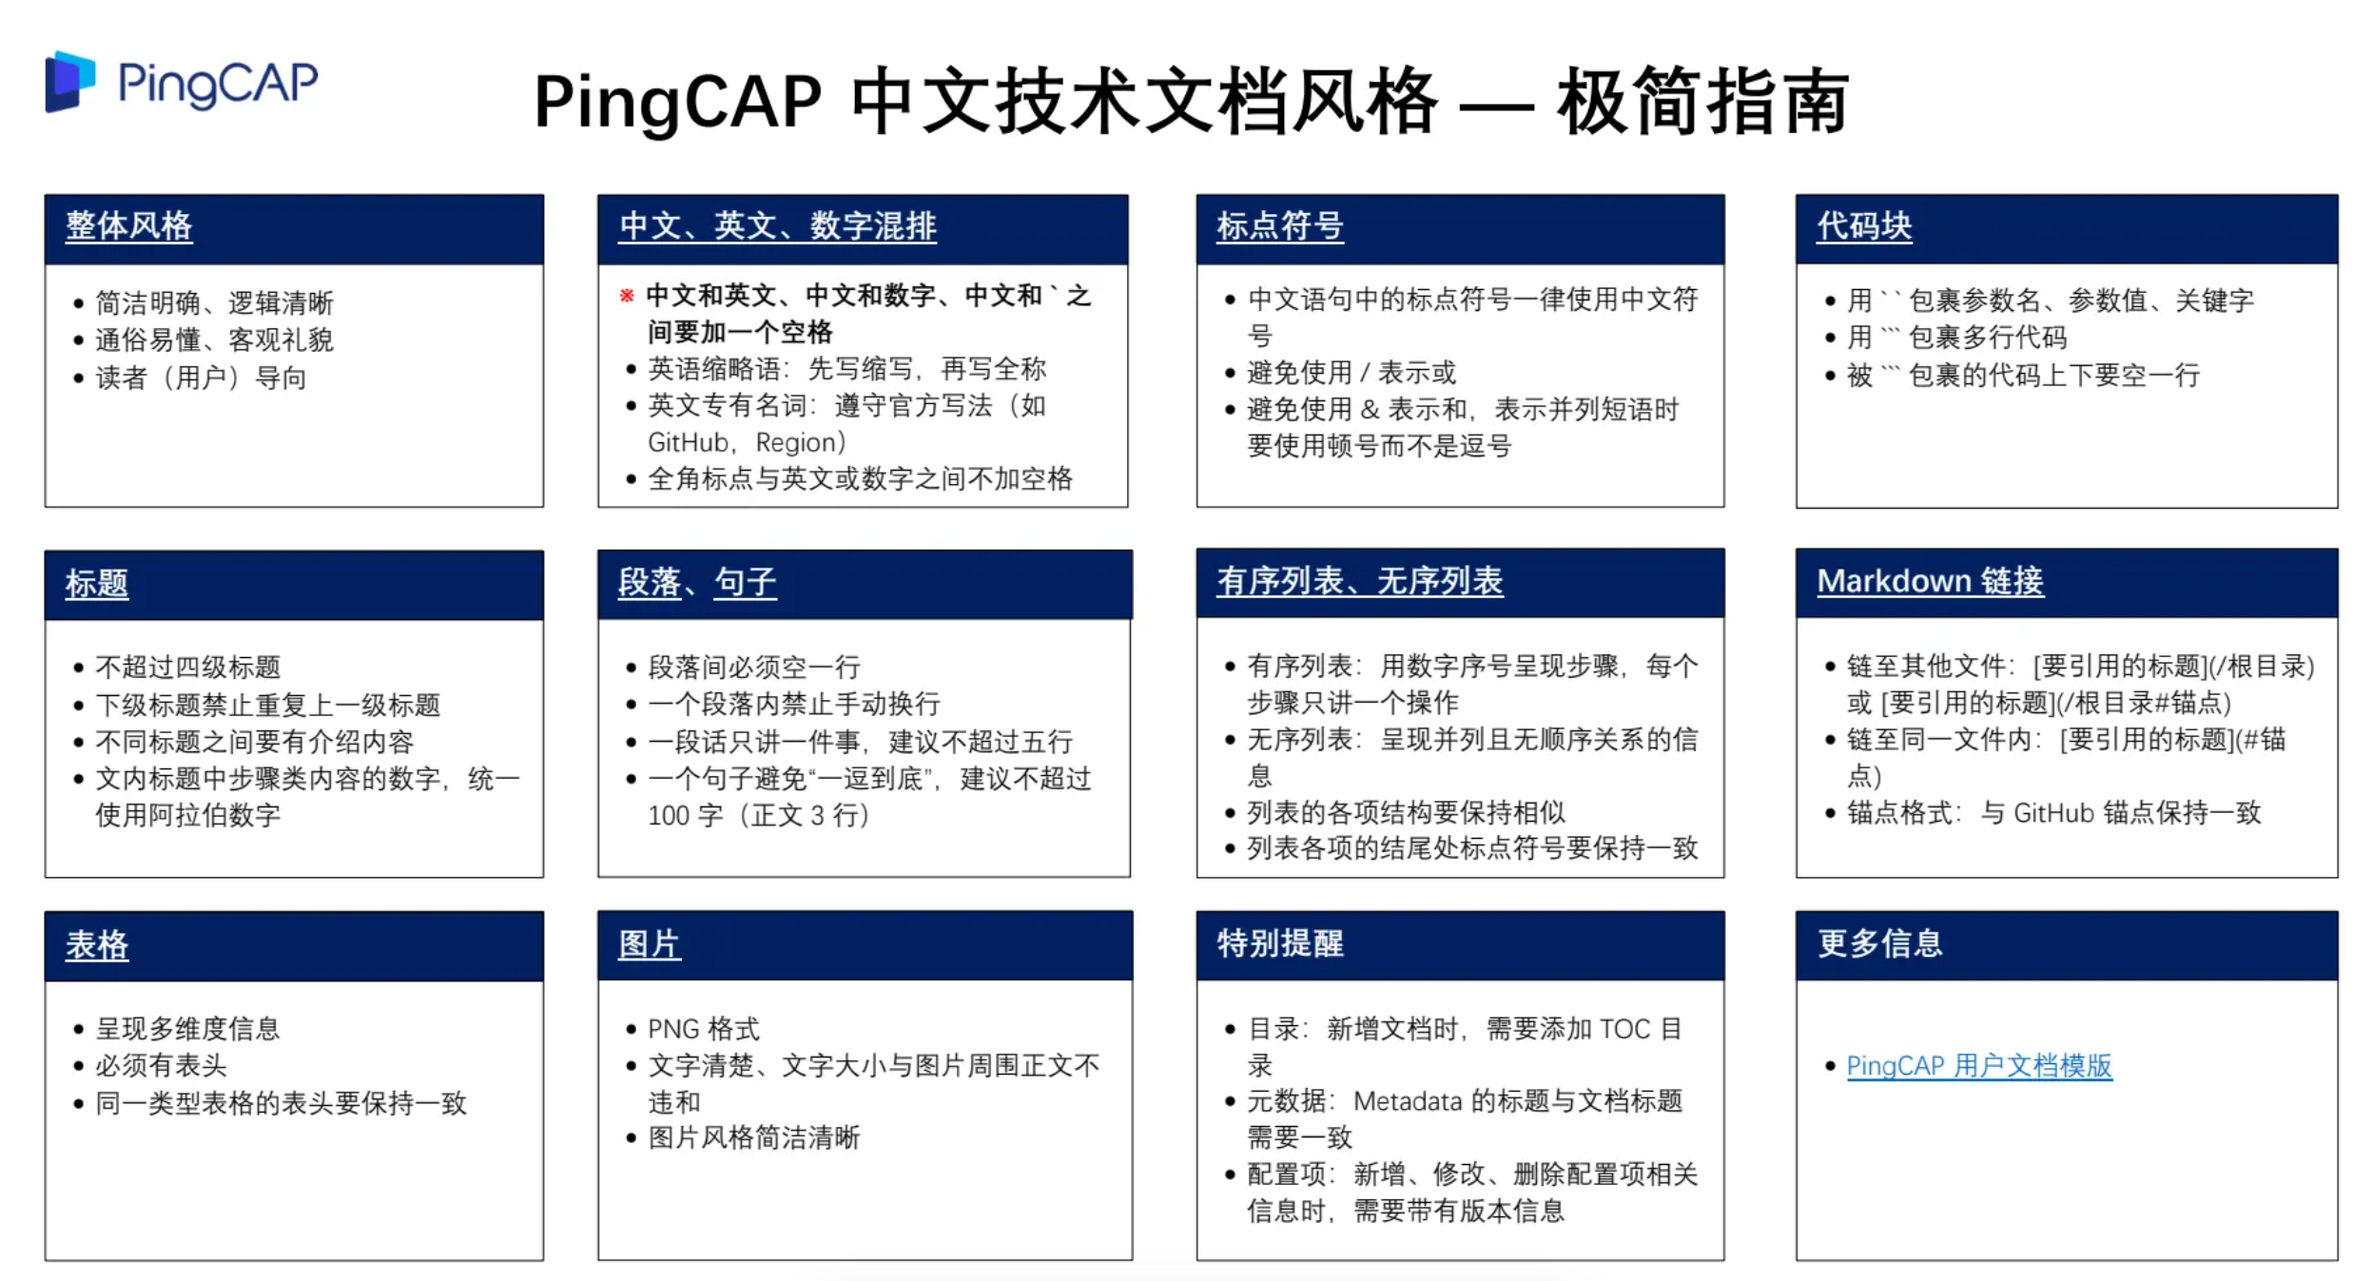
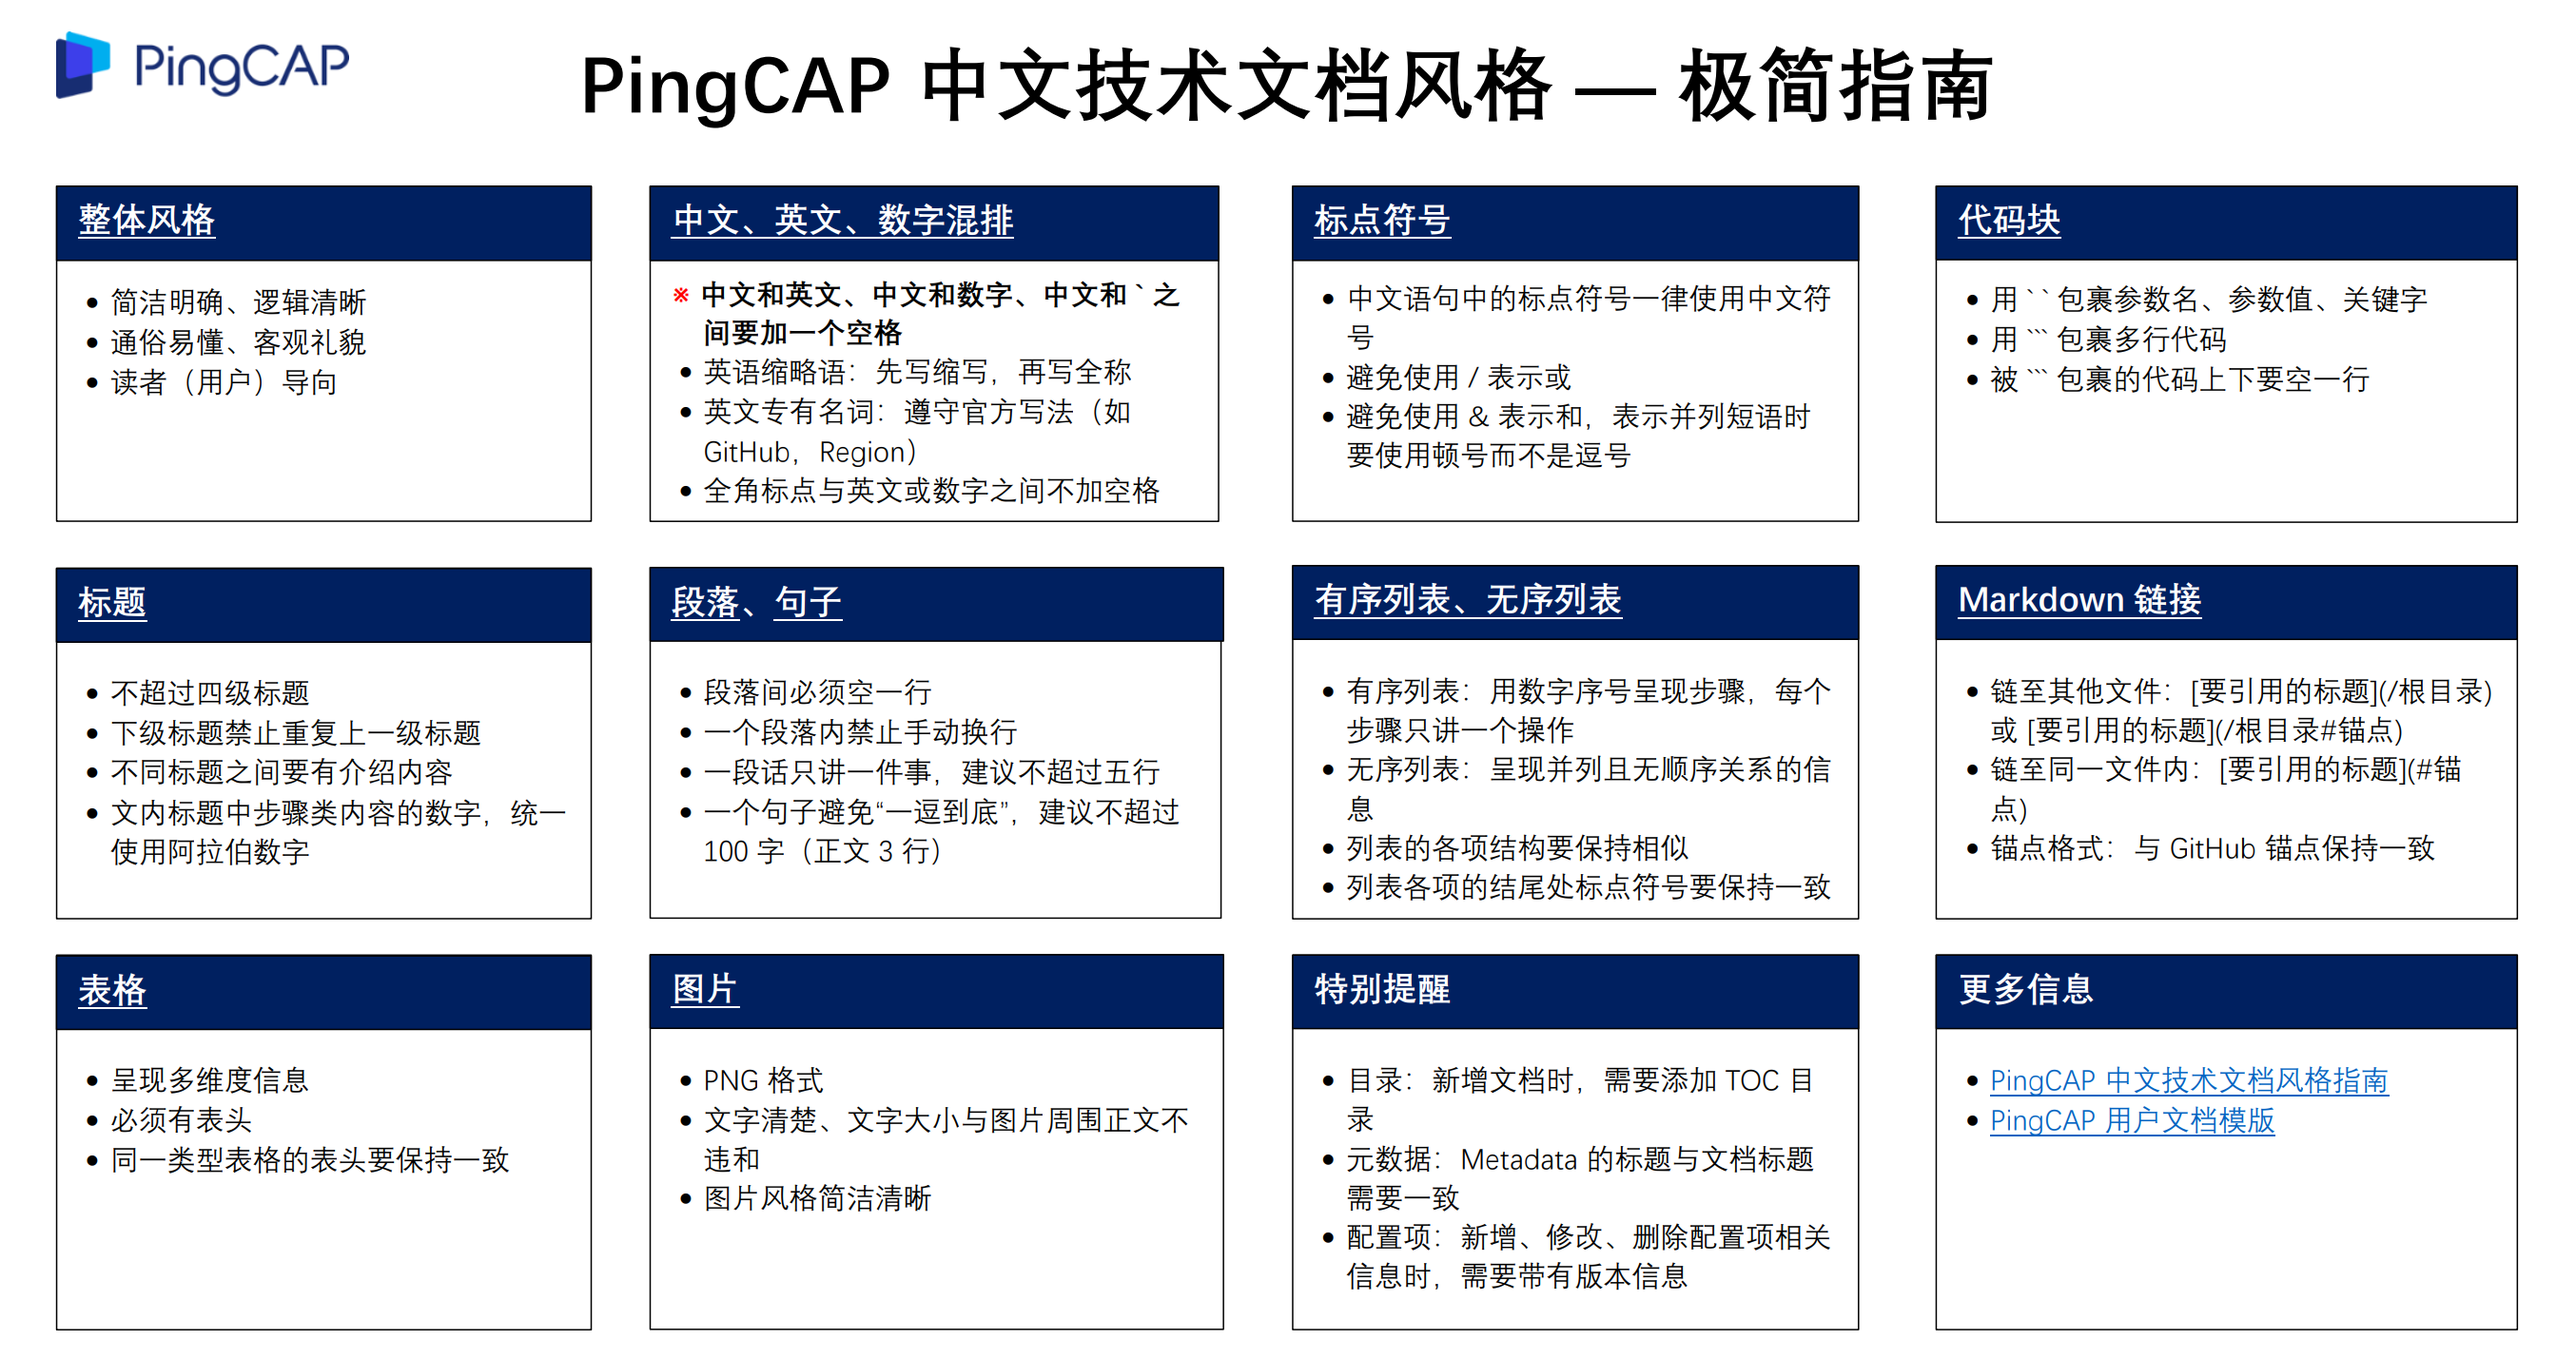
updated 1pager diagram

diff --git a/CONTRIBUTING.md b/CONTRIBUTING.md
@@ -83,7 +83,8 @@ TiDB 中文文档的日常更新特别活跃，相应地，[TiDB 英文文档](h
 
 参考文档：
 
-- [PingCAP 用户文档模版](https://github.com/pingcap/docs-cn/tree/master/resources/doc-templates)
+- [PingCAP 中文文档风格指南](/resources/pingcap-style-guide-zh.pdf)
+- [TiDB 中文用户文档模板](/resources/doc-templates)
 
 ## 参考资料
 
@@ -266,9 +267,7 @@ git push -u origin new-branch-name
 
 其他快速上手资源
 
-- [PingCAP 中文文档风格指南](/resources/pingcap-style-guide-zh.pdf)
 - [PingCAP 中英术语表](https://shimo.im/sheets/tTRyydP8Xkdv8yxq/MODOC)
-- [TiDB 中文用户文档模板](/resources/doc-templates)
 - [Pull Request Commit Message 规范](https://github.com/pingcap/community/blob/master/contributors/commit-message-pr-style.md#how-to-write-a-good-commit-message)
 - [Pull Request 标题规范](https://github.com/pingcap/community/blob/master/contributors/commit-message-pr-style.md#pull-request-title-style)
 - [代码注释规范](https://github.com/pingcap/community/blob/master/contributors/code-comment-style.md)
